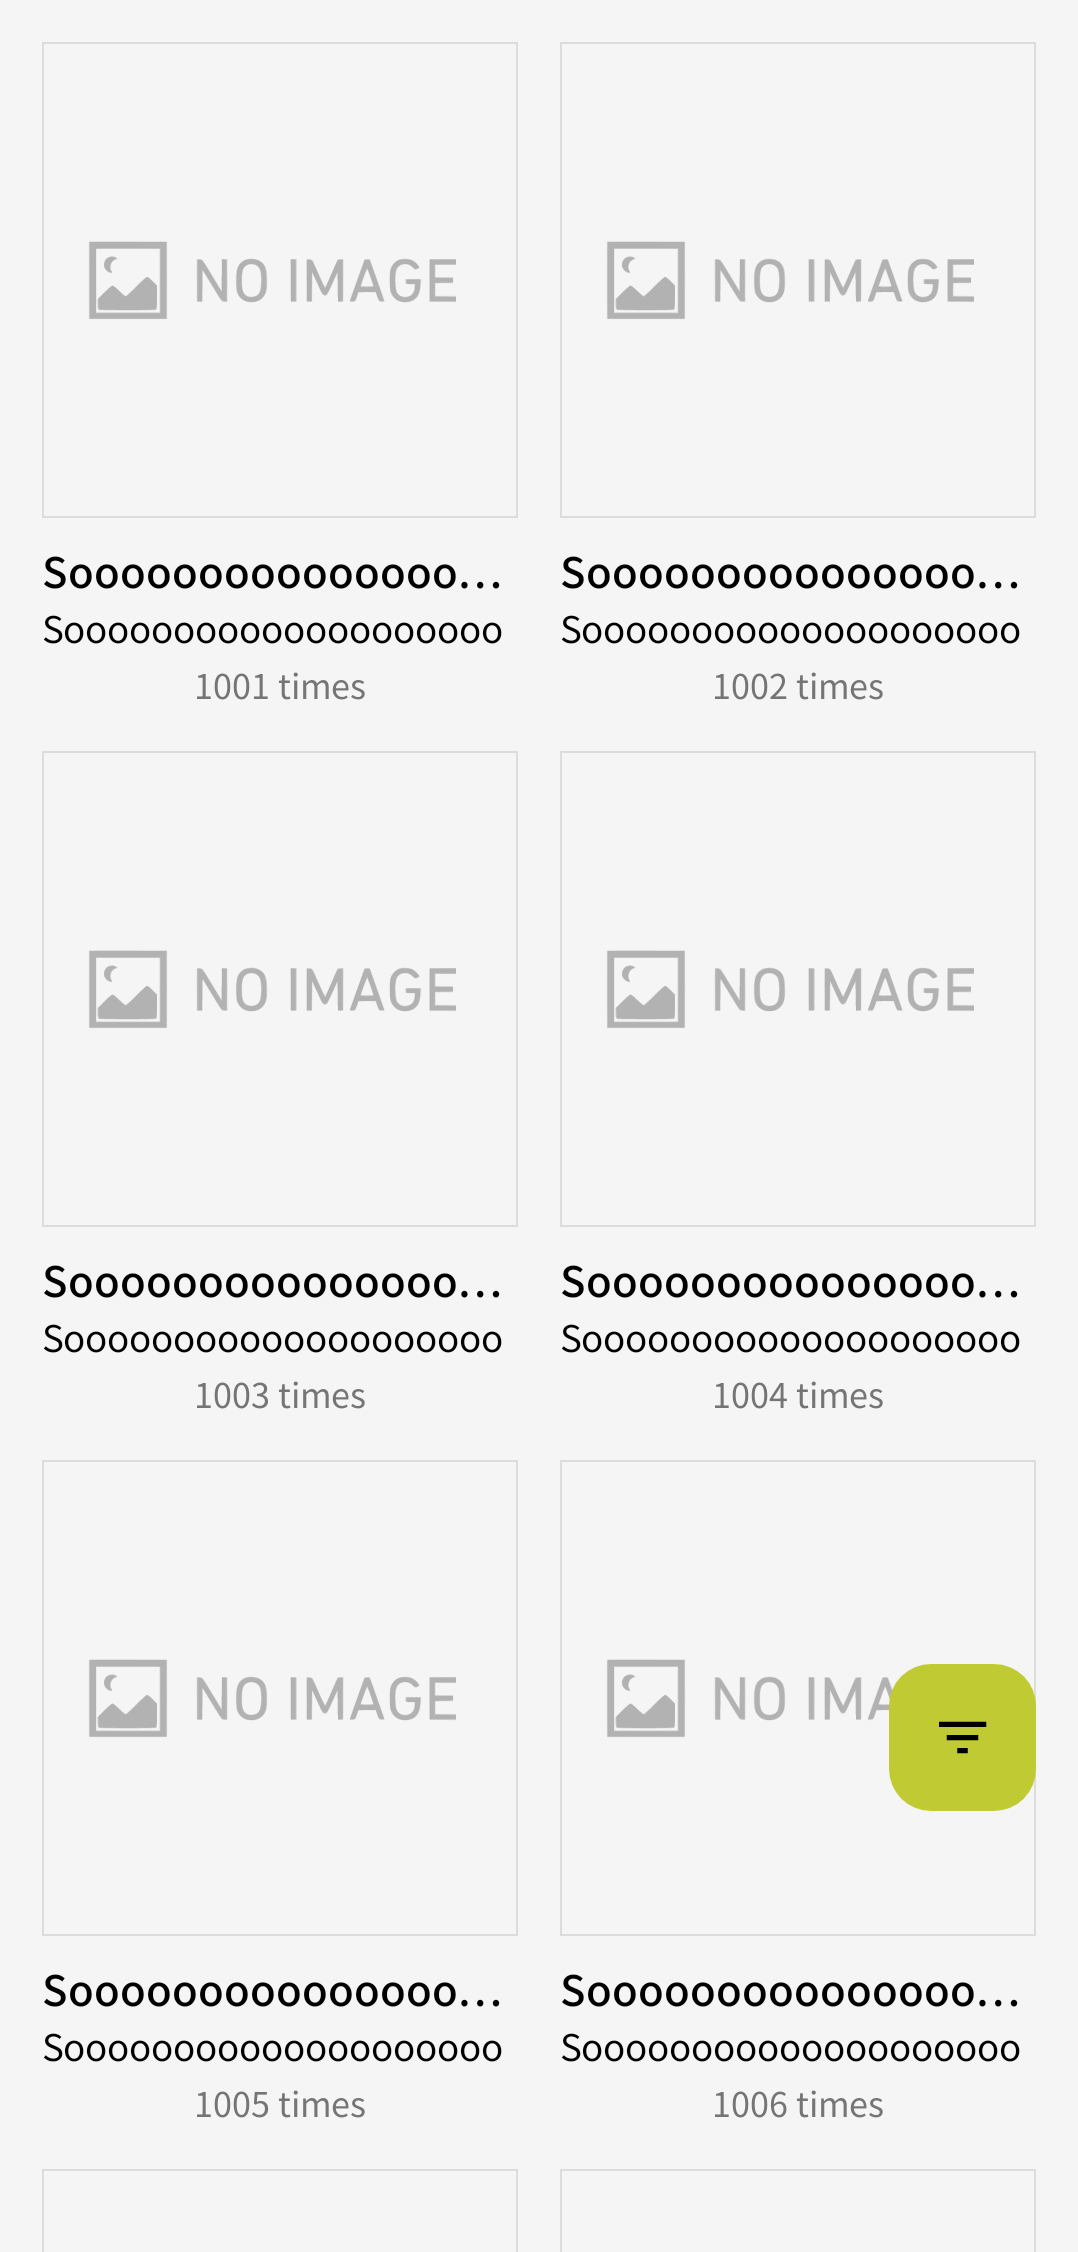
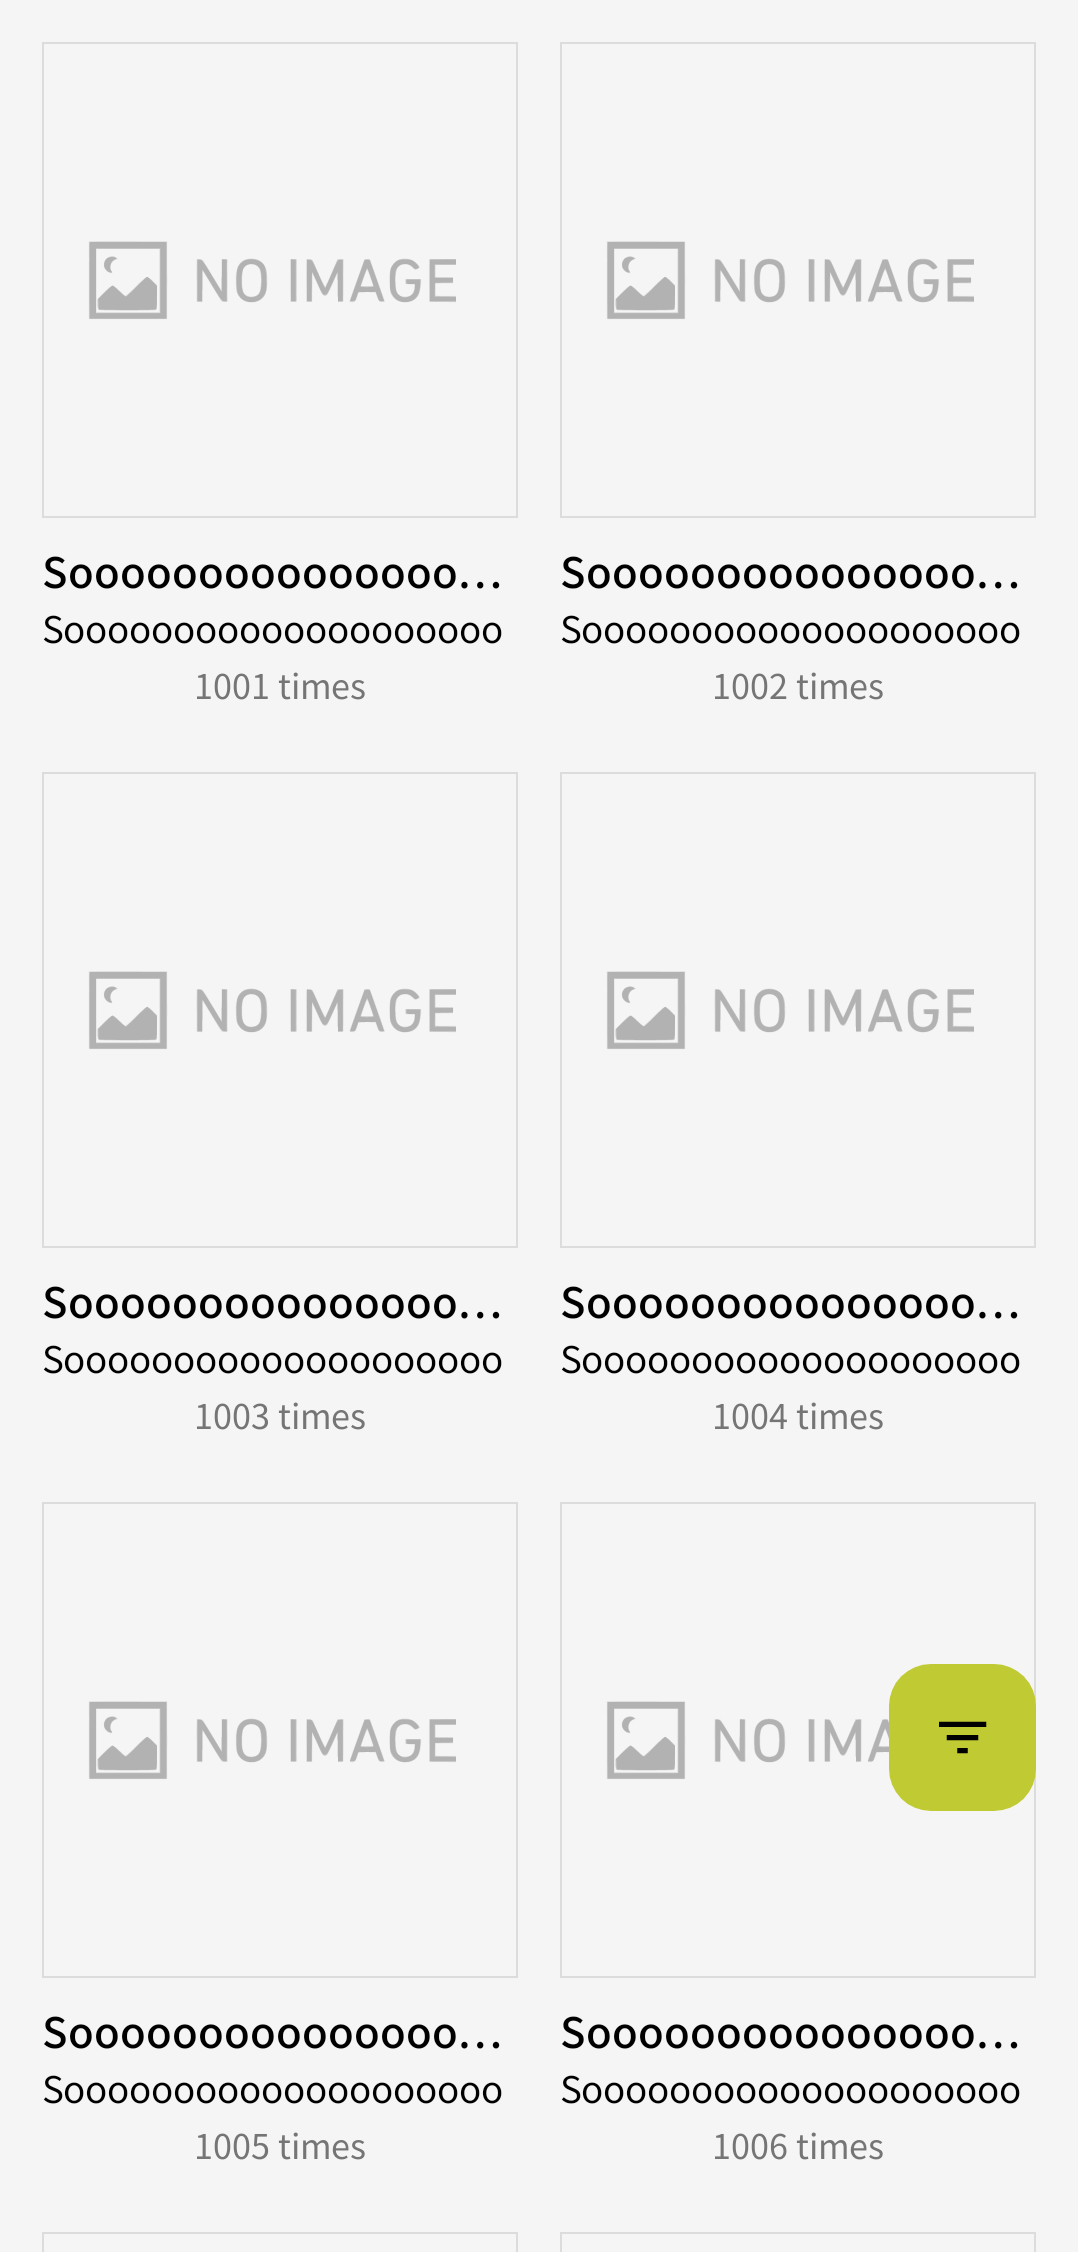
Fix top content margins

diff --git a/feature/artist/src/main/java/com/mataku/scrobscrob/artist/ui/molecule/TopArtist.kt b/feature/artist/src/main/java/com/mataku/scrobscrob/artist/ui/molecule/TopArtist.kt
@@ -37,7 +37,11 @@ internal fun TopArtist(
   Column(
     horizontalAlignment = Alignment.CenterHorizontally,
     modifier = modifier
-      .padding(8.dp)
+      .padding(
+        start = 8.dp,
+        end = 8.dp,
+        bottom = 24.dp,
+      )
       .clickable {
         onArtistTap()
       }
@@ -81,6 +85,7 @@ internal fun TopArtist(
     } else {
       R.string.playcounts
     }
+    Spacer(modifier = Modifier.height(2.dp))
     Text(
       stringResource(playCountResource, artist.playCount),
       style = SunsetTextStyle.caption,

diff --git a/feature/artist/src/main/java/com/mataku/scrobscrob/artist/ui/screen/TopArtistsScreen.kt b/feature/artist/src/main/java/com/mataku/scrobscrob/artist/ui/screen/TopArtistsScreen.kt
@@ -164,7 +164,10 @@ private fun TopArtistsContent(
   modifier: Modifier = Modifier
 ) {
   LazyVerticalGrid(
-    contentPadding = PaddingValues(8.dp),
+    contentPadding = PaddingValues(
+      horizontal = 8.dp,
+      vertical = 16.dp,
+    ),
     columns = GridCells.Fixed(maxSpanCount),
     content = {
       itemsIndexed(

diff --git a/feature/album/src/main/java/com/mataku/scrobscrob/album/ui/screen/TopAlbumsScreen.kt b/feature/album/src/main/java/com/mataku/scrobscrob/album/ui/screen/TopAlbumsScreen.kt
@@ -162,7 +162,10 @@ private fun TopAlbumsContent(
   modifier: Modifier = Modifier
 ) {
   LazyVerticalGrid(
-    contentPadding = PaddingValues(8.dp),
+    contentPadding = PaddingValues(
+      horizontal = 8.dp,
+      vertical = 16.dp
+    ),
     columns = GridCells.Fixed(maxSpanCount),
     content = {
       itemsIndexed(

diff --git a/feature/album/src/main/java/com/mataku/scrobscrob/album/ui/molecule/TopAlbum.kt b/feature/album/src/main/java/com/mataku/scrobscrob/album/ui/molecule/TopAlbum.kt
@@ -44,7 +44,11 @@ internal fun TopAlbum(
     horizontalAlignment = Alignment.CenterHorizontally,
     modifier = modifier
       .fillMaxWidth()
-      .padding(8.dp)
+      .padding(
+        start = 8.dp,
+        end = 8.dp,
+        bottom = 24.dp
+      )
       .clickable {
         onAlbumTap()
       },
